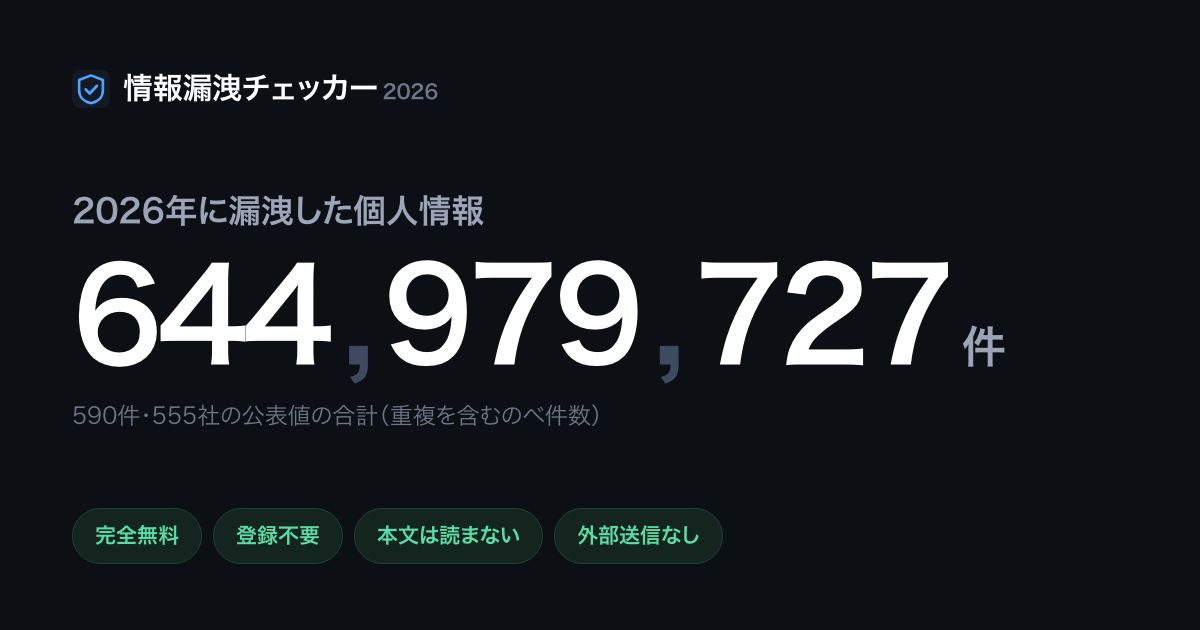
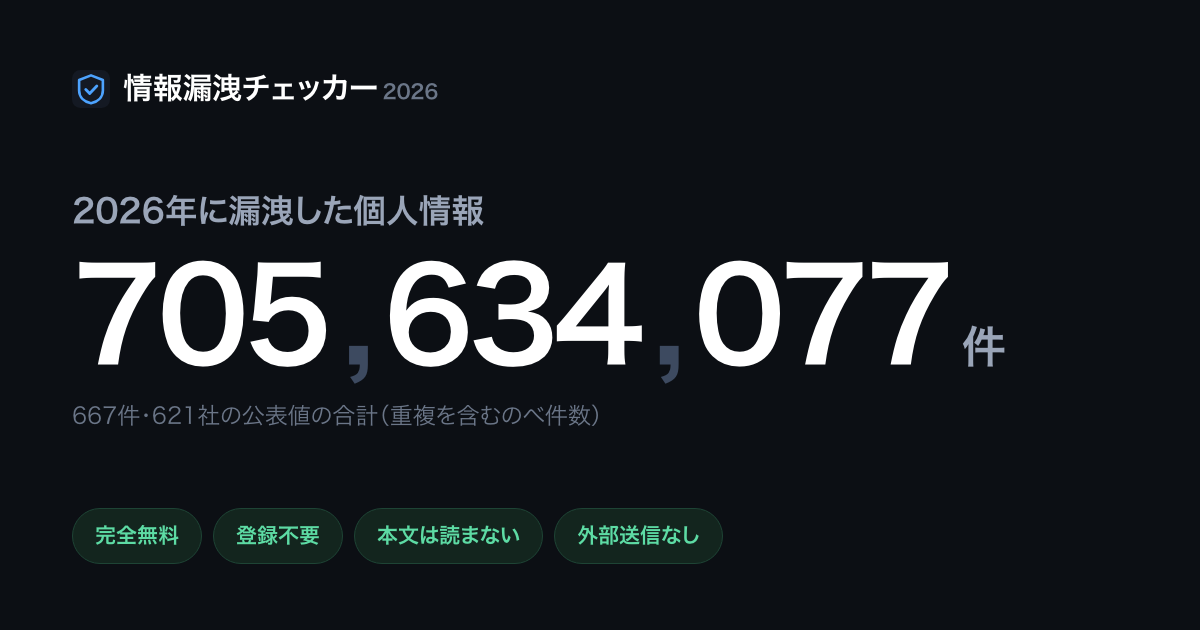
日次ぶんの件数で共有画像を作り直す
日次ジョブは事案を +77件 足したが、共有画像の作り直しにはブラウザが要るので
CIでは作れない。サイトを出す前にここで作り直す。

diff --git a/site/index.html b/site/index.html
@@ -17,7 +17,7 @@
 <meta property="og:image" content="https://leakscan.matsunai.com/assets/og.png">
 <meta property="og:image:width" content="1200">
 <meta property="og:image:height" content="630">
-<meta property="og:image:alt" content="2026年に漏洩した個人情報 644,979,727件">
+<meta property="og:image:alt" content="2026年に漏洩した個人情報 705,634,077件">
 <meta name="twitter:card" content="summary_large_image">
 <link rel="stylesheet" href="assets/style.css">
 <link rel="icon" href="assets/logo.svg" type="image/svg+xml">

diff --git a/site/install.html b/site/install.html
@@ -17,7 +17,7 @@
 <meta property="og:image" content="https://leakscan.matsunai.com/assets/og.png">
 <meta property="og:image:width" content="1200">
 <meta property="og:image:height" content="630">
-<meta property="og:image:alt" content="2026年に漏洩した個人情報 644,979,727件">
+<meta property="og:image:alt" content="2026年に漏洩した個人情報 705,634,077件">
 <meta name="twitter:card" content="summary_large_image">
 <link rel="stylesheet" href="assets/style.css">
 <link rel="icon" href="assets/logo.svg" type="image/svg+xml">

diff --git a/site/list.html b/site/list.html
@@ -17,7 +17,7 @@
 <meta property="og:image" content="https://leakscan.matsunai.com/assets/og.png">
 <meta property="og:image:width" content="1200">
 <meta property="og:image:height" content="630">
-<meta property="og:image:alt" content="2026年に漏洩した個人情報 644,979,727件">
+<meta property="og:image:alt" content="2026年に漏洩した個人情報 705,634,077件">
 <meta name="twitter:card" content="summary_large_image">
 <link rel="stylesheet" href="assets/style.css">
 <link rel="icon" href="assets/logo.svg" type="image/svg+xml">

diff --git a/site/privacy.html b/site/privacy.html
@@ -17,7 +17,7 @@
 <meta property="og:image" content="https://leakscan.matsunai.com/assets/og.png">
 <meta property="og:image:width" content="1200">
 <meta property="og:image:height" content="630">
-<meta property="og:image:alt" content="2026年に漏洩した個人情報 644,979,727件">
+<meta property="og:image:alt" content="2026年に漏洩した個人情報 705,634,077件">
 <meta name="twitter:card" content="summary_large_image">
 <link rel="stylesheet" href="assets/style.css">
 <link rel="icon" href="assets/logo.svg" type="image/svg+xml">
